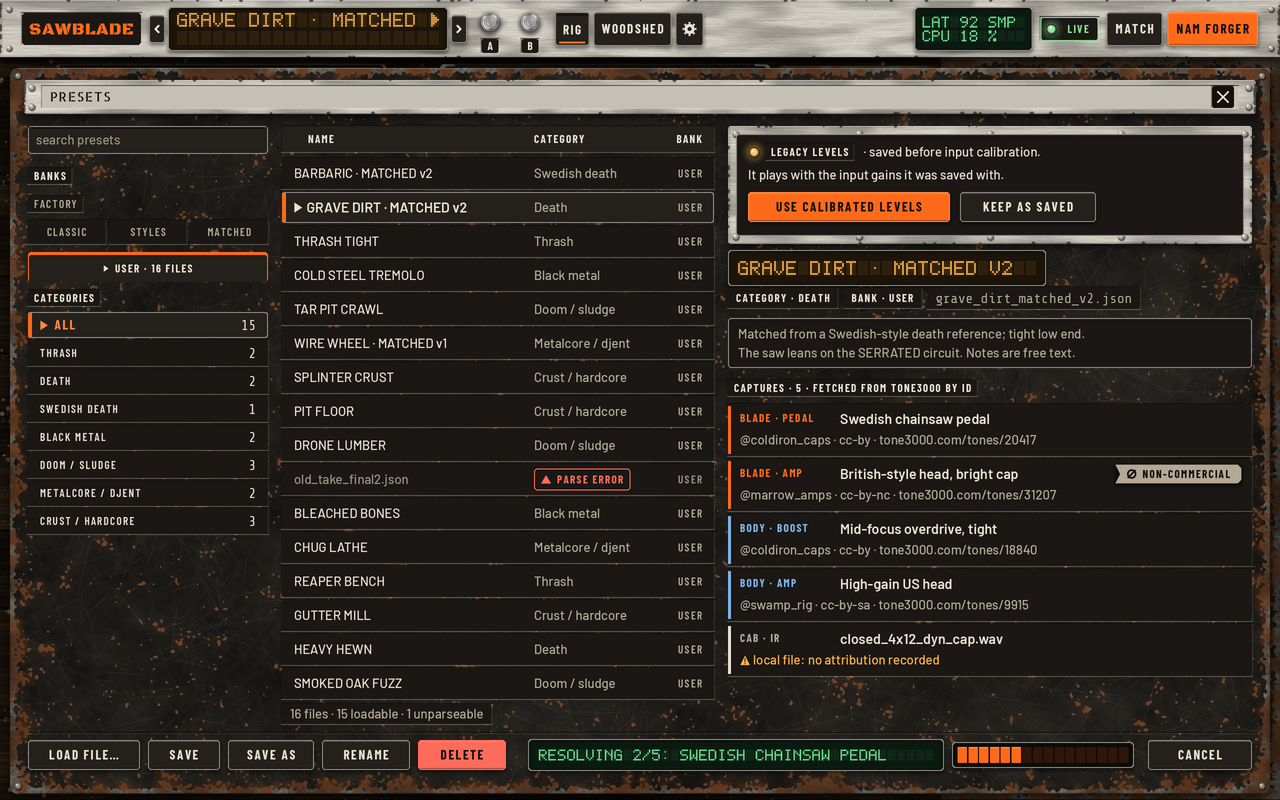
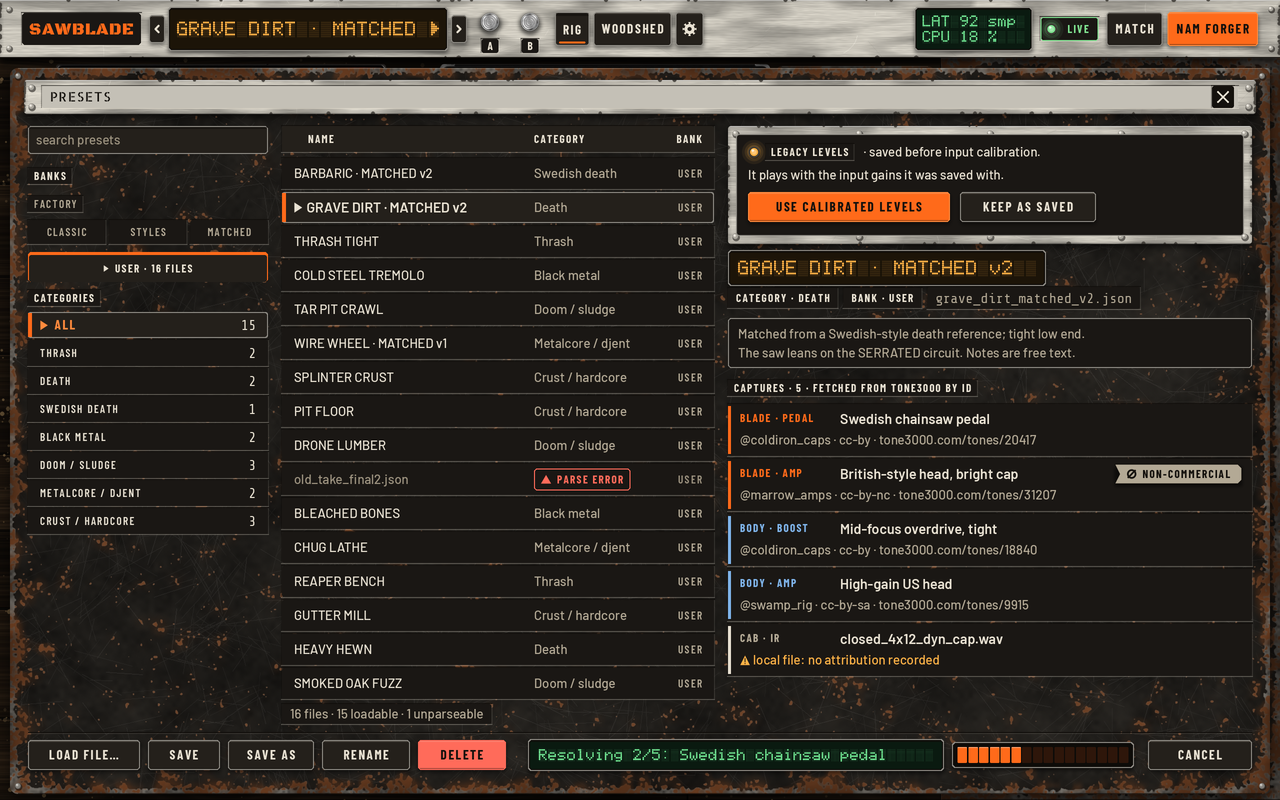
mockups: lower-case dot-matrix glyphs so units and names read as given (dB, smp, v2)
- dm_display: 5x7 glyphs gain a-z (one descender row); text is rendered in the case it is given; row pitch includes the descender row
- v3 strings use their real case (dB, dBu, smp, v2, v3, epoch / ETA / min); mixed-case label styles for the lamp words
- 03 status strips are 42 px so the two rows stay clear; v2 sets unchanged; README v3 table and note updated

Claude-Session: https://claude.ai/code/session_01Xtcva4Boag1J55QcGzGRmV

diff --git a/design/render/workshop_style.py b/design/render/workshop_style.py
@@ -249,6 +249,8 @@ STYLES = {
     'label':    dict(font='barlowc600', size=11, track=0.12, fg='bone_dim', caps=True),
     'label_b':  dict(font='barlowc700', size=11, track=0.12, fg='bone', caps=True, bold=True),
     'label_ink': dict(font='barlowc700', size=11, track=0.12, fg='ink', caps=True, bold=True),
+    'label_mx': dict(font='barlowc600', size=11, track=0.06, fg='bone_dim'),            # v3: unit case kept (dB, smp)
+    'label_mx_b': dict(font='barlowc700', size=11, track=0.06, fg='bone', bold=True),
     'button':   dict(font='barlowc700', size=13, track=0.12, fg='bone', caps=True, bold=True),
     'button_ink': dict(font='barlowc700', size=13, track=0.12, fg='ink', caps=True, bold=True),
     'body':     dict(font='barlow500', size=13, track=0.0, fg='bone'),
@@ -2117,16 +2119,34 @@ _DM = {
     '<': "....# ...#. ..#.. .#... ..#.. ...#. ....#", "'": "..#.. ..#.. ..... ..... ..... ..... .....",
     '|': "..#.. ..#.. ..#.. ..#.. ..#.. ..#.. ..#..", '@': ".###. #...# #.### #.#.# #.### #.... .###.",
 }
-DM_GLYPHS = {k: v.split() for k, v in _DM.items()}
+_DM_LOWER = {
+    'a': "..... ..... .###. ....# .#### #...# .#### .....", 'b': "#.... #.... #.##. ##..# #...# ##..# #.##. .....",
+    'c': "..... ..... .###. #...# #.... #...# .###. .....", 'd': "....# ....# .##.# #..## #...# #..## .##.# .....",
+    'e': "..... ..... .###. #...# ##### #.... .###. .....", 'f': "..##. .#..# .#... ###.. .#... .#... .#... .....",
+    'g': "..... ..... .#### #...# #...# .#### ....# .###.", 'h': "#.... #.... #.##. ##..# #...# #...# #...# .....",
+    'i': "..#.. ..... .##.. ..#.. ..#.. ..#.. .###. .....", 'j': "...#. ..... ..##. ...#. ...#. ...#. #..#. .##..",
+    'k': "#.... #.... #..#. #.#.. ##... #.#.. #..#. .....", 'l': ".##.. ..#.. ..#.. ..#.. ..#.. ..#.. .###. .....",
+    'm': "..... ..... ##.#. #.#.# #.#.# #.#.# #.#.# .....", 'n': "..... ..... #.##. ##..# #...# #...# #...# .....",
+    'o': "..... ..... .###. #...# #...# #...# .###. .....", 'p': "..... ..... #.##. ##..# #...# ####. #.... #....",
+    'q': "..... ..... .##.# #..## #...# .#### ....# ....#", 'r': "..... ..... #.##. ##..# #.... #.... #.... .....",
+    's': "..... ..... .#### #.... .###. ....# ####. .....", 't': ".#... .#... ###.. .#... .#... .#..# ..##. .....",
+    'u': "..... ..... #...# #...# #...# #..## .##.# .....", 'v': "..... ..... #...# #...# #...# .#.#. ..#.. .....",
+    'w': "..... ..... #...# #...# #.#.# #.#.# .#.#. .....", 'x': "..... ..... #...# .#.#. ..#.. .#.#. #...# .....",
+    'y': "..... ..... #...# #...# #...# .#### ....# .###.", 'z': "..... ..... ##### ...#. ..#.. .#... ##### .....",
+}
+DM_GLYPHS = {k: v.split() + ['.....'] for k, v in _DM.items()}
+DM_GLYPHS.update({k: v.split() for k, v in _DM_LOWER.items()})
 for _k, _v in DM_GLYPHS.items():
-    if len(_v) != 7 or any(len(r) != 5 for r in _v):
-        raise ValueError('dot-matrix glyph %r is not 5x7' % _k)
-_DM_ALIAS = {'−': '-', '–': '-', '▸': '▶', '✗': '×', 'é': 'E'}
+    if len(_v) != 8 or any(len(r) != 5 for r in _v):
+        raise ValueError('dot-matrix glyph %r is not 5 wide x 8 rows (7 + a descender row)' % _k)
+_DM_ALIAS = {'−': '-', '–': '-', '▸': '▶', '✗': '×', 'é': 'e'}
 
 
 def dm_glyph(ch):
-    ch = _DM_ALIAS.get(ch, ch.upper())
-    return DM_GLYPHS.get(ch, DM_GLYPHS['?'])
+    ch = _DM_ALIAS.get(ch, ch)
+    if ch in DM_GLYPHS:
+        return DM_GLYPHS[ch]
+    return DM_GLYPHS.get(ch.upper(), DM_GLYPHS['?'])
 
 
 def dm_width(s, h=14):
@@ -2161,11 +2181,11 @@ def dm_display(cv, rect, lines, h=14, tone='amber', align='l', pad=6, row_gap=No
     gx0, gx1 = gl[0] + pad, gl[2] - pad
     cols = max(1, int((gx1 - gx0 + pitch) // adv))
     gx = gx0 + ((gx1 - gx0) - (cols * adv - pitch)) / 2.0
-    row_pitch = (row_gap if row_gap is not None else 2.2) * pitch + 7 * pitch
+    row_pitch = (row_gap if row_gap is not None else 2.2) * pitch + 8 * pitch          # 7 cap rows + the descender row + the gap
     nrows = len(lines)
-    rows_fit = max(1, int(((gl[3] - gl[1]) - 4 + (row_pitch - 7 * pitch)) // row_pitch))
+    rows_fit = max(1, int(((gl[3] - gl[1]) - 4 - 8 * pitch) // row_pitch) + 1)
     nrows_draw = min(nrows, rows_fit)
-    gy = (gl[1] + gl[3]) / 2.0 - ((rows_fit - 1) * row_pitch + 7 * pitch) / 2.0
+    gy = (gl[1] + gl[3]) / 2.0 - ((rows_fit - 1) * row_pitch + 7.5 * pitch) / 2.0
     # flat check before anything is drawn on the glass
     _flat_colour(cv, _dev((gl[0] + 1, gl[1] + 1, gl[2] - 1, gl[3] - 1)), 'display', allow=(glass, ghost))
     k = 4
@@ -2179,7 +2199,7 @@ def dm_display(cv, rect, lines, h=14, tone='amber', align='l', pad=6, row_gap=No
     ink_rows = []
     for r in range(rows_fit):
         for c in range(cols):
-            for j in range(7):
+            for j in range(8):
                 for i in range(5):
                     cx = (gx + c * adv + (i + 0.5) * pitch - gl[0]) * S
                     cy = (gy + r * row_pitch + (j + 0.5) * pitch - gl[1]) * S
@@ -2192,14 +2212,14 @@ def dm_display(cv, rect, lines, h=14, tone='amber', align='l', pad=6, row_gap=No
         off = {'l': 0, 'c': (cols - len(txt)) // 2, 'r': cols - len(txt)}[align]
         for ci, ch in enumerate(txt):
             g = dm_glyph(ch)
-            for j in range(7):
+            for j in range(8):
                 for i in range(5):
                     if g[j][i] == '#':
                         cx = (gx + (ci + off) * adv + (i + 0.5) * pitch - gl[0]) * S * k
                         cy = (gy + r * row_pitch + (j + 0.5) * pitch - gl[1]) * S * k
                         rr = dr * S * k
                         ld.ellipse((cx - rr, cy - rr, cx + rr, cy + rr), fill=255)
-        ink_rows.append((txt, (gx + off * adv, gy + r * row_pitch, gx + (off + len(txt)) * adv - pitch, gy + r * row_pitch + 7 * pitch)))
+        ink_rows.append((txt, (gx + off * adv, gy + r * row_pitch, gx + (off + len(txt)) * adv - pitch, gy + r * row_pitch + 8 * pitch)))
     # unlit matrix: exact ghost colour, no anti-aliasing (the flat colours are {glass, ghost})
     cv.im.paste(Image.new('RGB', (wd, hd), ghost), (x0d, y0d), ghost_m.point(lambda v: 255 if v > 127 else 0))
     lit_s = lit_m.resize((wd, hd), Image.BOX)
@@ -2425,7 +2445,7 @@ def top_bar_v3(cv, st, y=0, width=PAGE_W):
     out['mode'] = mr
     x = mr[0] - 8
     sr = (x - 118, cy - 22, x, cy + 22)
-    dm_display(cv, sr, ['LAT %d SMP' % st.lat, 'CPU %d %%' % st.cpu], h=11, tone='green', pad=4, row_gap=1.8)
+    dm_display(cv, sr, ['LAT %d smp' % st.lat, 'CPU %d %%' % st.cpu], h=11, tone='green', pad=4, row_gap=1.8)
     out['status'] = sr
     x = sr[0] - 8
     # ---- state lamps (UNCAL / OUT OF TRUE) in one backlit block in the room between the clusters -------------------------
@@ -2436,7 +2456,7 @@ def top_bar_v3(cv, st, y=0, width=PAGE_W):
     elif st.uncal:
         rows = [('amber', 'UNCAL', 'label_b', 'warn'), (None, 'NOT CALIBRATED', 'label', 'bone_dim')]
     elif st.out_of_true:
-        rows = [('red', 'OUT OF TRUE', 'label_b', 'alert'), (None, '+%.1f DB HOTTER' % st.out_of_true_db, 'label', 'bone_dim')]
+        rows = [('red', 'OUT OF TRUE', 'label_b', 'alert'), (None, '+%.1f dB hotter' % st.out_of_true_db, 'label_mx', 'bone_dim')]
     if rows:
         bwid = max(text_width(t, sty) for (_h, t, sty, _f) in rows) + 40
         br = (x - bwid, cy - 24, x, cy + 24)
@@ -2651,15 +2671,15 @@ def render_style_sheet_v3():
         elif nme in ('lcd_green',):
             text(cv, (lab[2] - 4, rect_c(lab)[1]), '%.1f:1' % contrast(PAL[nme], PAL['glass_green']), 'label', bg=lab, size=11, fg='bone_dim', align='r')
     dmk = _section(cv, (ax0, 402, ax1, 790), 'DOT-MATRIX 5 x 7 · GHOST DOTS')
-    dm_display(cv, (dmk[0], dmk[1], dmk[2], dmk[1] + 86), ['ABCDEFGHIJKLM', 'NOPQRSTUVWXYZ', '0123456789 .:-+/%'], h=14, tone='amber', pad=8, row_gap=0.8)
-    dm_display(cv, (dmk[0], dmk[1] + 94, dmk[2], dmk[1] + 152), ['LAT 92 SMP · CPU 18 %', 'EPOCH 41 / 100 · ETA 18 MIN'], h=11, tone='green', pad=8, row_gap=1.6)
+    dm_display(cv, (dmk[0], dmk[1], dmk[2], dmk[1] + 86), ['ABCDEFGHIJKLM nopqrstuvwxyz', 'abcdefghijklm NOPQRSTUVWXYZ', '0123456789 .:-+/% dB smp ms Hz dBu'], h=14, tone='amber', pad=8, row_gap=0.8)
+    dm_display(cv, (dmk[0], dmk[1] + 94, dmk[2], dmk[1] + 152), ['LAT 92 smp · CPU 18 %', 'epoch 41 / 100 · ETA 18 min'], h=11, tone='green', pad=8, row_gap=1.6)
     gr = '%.2f' % contrast(GHOST['amber'], TONES['amber']['glass'])
     gg = '%.2f' % contrast(GHOST['green'], TONES['green']['glass'])
     label_well(cv, (dmk[0], dmk[1] + 170), 'GHOST VS GLASS · AMBER %s:1 · GREEN %s:1 (<= 1.25)' % (gr, gg), 'label_b', h=20)
     strip_y = dmk[1] + 196
     lit = contrast(rgb(TONES['amber']['lit']), tuple(int(round(GHOST['amber'][q] * (1 - BLOOM) + rgb(TONES['amber']['lit'])[q] * BLOOM)) for q in range(3)))
     label_well(cv, (dmk[0], strip_y), 'LIT TEXT VS GHOST + BLOOM (logged) · AMBER %.1f:1' % lit, 'label_b', h=20)
-    dm_display(cv, (dmk[0], strip_y + 18, dmk[2], strip_y + 56), 'A VERY LONG PRESET NAME THAT SCROLLS', h=14, tone='amber', pad=8)
+    dm_display(cv, (dmk[0], strip_y + 18, dmk[2], strip_y + 56), 'A very long preset name that scrolls', h=14, tone='amber', pad=8)
     label_well(cv, (dmk[0], strip_y + 72), 'SCROLLER: CLIPPED ▶ MARKER WHEN LONGER THAN THE WINDOW', 'label', h=18)
     # ---- column B: segment LCDs, ladders, rings ------------------------------------------------------------------------------
     bx0, bx1 = 446, 858
@@ -2691,10 +2711,10 @@ def render_style_sheet_v3():
     # ---- column C: the top bar, buttons -----------------------------------------------------------------------------------------
     cx0, cx1 = 868, 1268
     tb = _section(cv, (cx0, 60, cx1, 250), 'TOP BAR · DISPLAYS')
-    dm_display(cv, (tb[0], tb[1] + 2, tb[2], tb[1] + 46), 'BARBARIC · MATCHED V2', h=14, tone='amber', pad=8)
+    dm_display(cv, (tb[0], tb[1] + 2, tb[2], tb[1] + 46), 'BARBARIC · MATCHED v2', h=14, tone='amber', pad=8)
     label_well(cv, (tb[0], tb[1] + 62), 'PRESET NAME · FITS THE WINDOW, NO SCROLL', 'label', h=18)
-    dm_display(cv, (tb[0], tb[1] + 78, tb[2] - 122, tb[1] + 124), ['A ▶ GRAVE DIRT · MATCHED V2', 'B · THRASH TIGHT'], h=14, tone='amber', pad=8, row_gap=1.4)
-    dm_display(cv, (tb[2] - 114, tb[1] + 78, tb[2], tb[1] + 124), ['LAT 92 SMP', 'CPU 18 %'], h=11, tone='green', pad=4, row_gap=1.8)
+    dm_display(cv, (tb[0], tb[1] + 78, tb[2] - 122, tb[1] + 124), ['A ▶ GRAVE DIRT · MATCHED v2', 'B · THRASH TIGHT'], h=14, tone='amber', pad=8, row_gap=1.4)
+    dm_display(cv, (tb[2] - 114, tb[1] + 78, tb[2], tb[1] + 124), ['LAT 92 smp', 'CPU 18 %'], h=11, tone='green', pad=4, row_gap=1.8)
     label_well(cv, (tb[0], tb[1] + 140), 'A / B SLOTS AND LAT / CPU · LONG NAMES CLIP WITH ▶', 'label', h=18)
     kb = _section(cv, (cx0, 260, cx1, 790), 'BUTTONS · FIELDS · FRAMES')
     by = kb[1] + 2

diff --git a/design/mockups/workshop/screens_panels.py b/design/mockups/workshop/screens_panels.py
@@ -147,29 +147,29 @@ def screen_03_settings_calibration():
     ws.text(cv, (bx0, y), 'INPUT CALIBRATION', 'title', bg=body, size=22)
     y += 34
     # status strips: not calibrated now, calibrated after APPLY
-    s1 = (bx0, y, bx1, y + (38 if ws.is_v3() else 34))
+    s1 = (bx0, y, bx1, y + (42 if ws.is_v3() else 34))
     flat_box(cv, s1, 'well_raised', 'warn', 3)
     if ws.is_v3():
         ws.glow_led(cv, s1[0] + 16, (s1[1] + s1[3]) / 2.0, True, 'amber', 4.0)
         ws.dm_display(cv, (s1[0] + 34, s1[1] + 2, s1[2] - 4, s1[3] - 2),
-                      ['UNCAL · INTERFACE NOT CALIBRATED', 'CAPTURES PLAY AT THE +9.0 DBU DEFAULT · NOW'], h=11, tone='amber', row_gap=2.0, pad=5)
+                      ['UNCAL · interface not calibrated', 'captures play at the +9.0 dBu default · NOW'], h=11, tone='amber', row_gap=1.5, pad=5)
     else:
         b = ws.badge(cv, (s1[0] + 10, y + 17), 'UNCAL')
         ws.text(cv, (b[2] + 10, y + 17), '— interface not calibrated: captures play at the +9.0 dBu default', 'body',
                 bg=ws.inset(s1, 3))
         ws.text(cv, (s1[2] - 10, y + 17), 'NOW', 'label_b', bg=ws.inset(s1, 3), align='r', fg='warn')
-    y += 44 if ws.is_v3() else 40
-    s2 = (bx0, y, bx1, y + (38 if ws.is_v3() else 30))
+    y += 48 if ws.is_v3() else 40
+    s2 = (bx0, y, bx1, y + (42 if ws.is_v3() else 30))
     flat_box(cv, s2, 'well_raised', 'ok', 3)
     if ws.is_v3():
         ws.glow_led(cv, s2[0] + 16, (s2[1] + s2[3]) / 2.0, True, 'green', 4.0)
         ws.dm_display(cv, (s2[0] + 34, s2[1] + 2, s2[2] - 4, s2[3] - 2),
-                      ['CALIBRATED · SCARLETT 4I4 3RD GEN · INST · +12.5 DBU', '2026-10-08 · AFTER APPLY'], h=11, tone='green', row_gap=2.0, pad=5)
+                      ['CALIBRATED · Scarlett 4i4 3rd Gen · INST · +12.5 dBu', '2026-10-08 · AFTER APPLY'], h=11, tone='green', row_gap=1.5, pad=5)
     else:
         ws.text(cv, (s2[0] + 10, y + 15), '✓ CALIBRATED · Scarlett 4i4 3rd Gen · INST · +12.5 dBu · 2026-10-08', 'body_strong',
                 bg=ws.inset(s2, 3), fg='ok')
         ws.text(cv, (s2[2] - 10, y + 15), 'AFTER APPLY', 'label_b', bg=ws.inset(s2, 3), align='r', fg='ok')
-    y += 50 if ws.is_v3() else 46
+    y += 56 if ws.is_v3() else 46
     # INTERFACE dropdown, shown open
     ws.text(cv, (bx0, y), 'INTERFACE', 'label_b', bg=body)
     y += 16
@@ -338,7 +338,7 @@ def screen_04_preset_browser():
     ws.button(cv, (hb[0] + 224, y0 + 66, hb[0] + 360, y0 + 96), 'KEEP AS SAVED', 'secondary')
     y = y0 + 142
     if ws.is_v3():
-        nr = ws.dm_display(cv, (ix0, y - 18, ix0 + 318, y + 18), 'GRAVE DIRT · MATCHED V2', h=14, tone='amber', pad=6)
+        nr = ws.dm_display(cv, (ix0, y - 18, ix0 + 318, y + 18), 'GRAVE DIRT · MATCHED v2', h=14, tone='amber', pad=6)
     else:
         nr = ws.label_well(cv, (ix0, y), 'GRAVE DIRT · MATCHED v2', 'title', fg='bone', size=18, h=32, pad=10)
     y += 30
@@ -383,7 +383,7 @@ def screen_04_preset_browser():
         bx += w + 8
     sr = (bx + 14, foot_y - 1, x1 - 118, foot_y + 31)
     if ws.is_v3():
-        ws.dm_display(cv, (sr[0], sr[1], sr[2] - 190, sr[3]), 'RESOLVING 2/5: SWEDISH CHAINSAW PEDAL', h=11, tone='green', pad=5)
+        ws.dm_display(cv, (sr[0], sr[1], sr[2] - 190, sr[3]), 'Resolving 2/5: Swedish chainsaw pedal', h=11, tone='green', pad=5)
         ws.led_bar(cv, (sr[2] - 182, foot_y + 2, sr[2], foot_y + 28), 0.4, n=16)
     else:
         cv.fill(sr, 'steel_bare', 3)
@@ -432,7 +432,7 @@ def screen_09_notices():
     rp = (984, 94, 1260, 140)
     rail_piece(cv, rp, 'noticeA')
     if ws.is_v3():
-        ws.state_led(cv, rp[0] + 14, 117, True, 'red', 'OUT OF TRUE · +4.5 dB', r=4.0)
+        ws.state_led(cv, rp[0] + 14, 117, True, 'red', 'OUT OF TRUE · +4.5 dB', r=4.0, style='label_mx_b')
         ws.label_well(cv, (984, 160), 'glowing lamp + word + dB offset', 'body_dim', h=20, pad=8)
     else:
         ws.chip(cv, (rp[0] + 14, 117), 'OUT OF TRUE · +4.5 dB', 'alert', glyph='skew', h=24)
@@ -455,7 +455,7 @@ def screen_09_notices():
     rp2 = (984, 220, 1260, 266)
     rail_piece(cv, rp2, 'noticeB')
     if ws.is_v3():
-        ws.state_led(cv, rp2[0] + 12, 243, True, 'amber', 'UNCAL · INTERFACE NOT CALIBRATED', r=4.0)
+        ws.state_led(cv, rp2[0] + 12, 243, True, 'amber', 'UNCAL · interface not calibrated', r=4.0, style='label_mx_b')
     else:
         ws.chip(cv, (rp2[0] + 12, 243), 'UNCAL · interface not calibrated', 'warn', glyph='warn', h=24)
     # ---- UNCAL badge placements -------------------------------------------------------------------------------------------
@@ -511,7 +511,7 @@ def screen_09_notices():
     tb = (t[0] + 8, t[1] + 8, t[2] - 8, t[3] - 8)
     flat_box(cv, tb, 'well', 'ok', 3)
     if ws.is_v3():
-        ws.dm_display(cv, (tb[0] + 2, tb[1] + 2, tb[2] - 2, tb[3] - 2), ['PRESET SAVED:', 'GRAVE DIRT · MATCHED V3'], h=11, tone='green', row_gap=1.6, pad=6)
+        ws.dm_display(cv, (tb[0] + 2, tb[1] + 2, tb[2] - 2, tb[3] - 2), ['Preset saved:', 'GRAVE DIRT · MATCHED v3'], h=11, tone='green', row_gap=1.6, pad=6)
     else:
         ws.glyph_icon(cv, 'check', tb[0] + 18, (tb[1] + tb[3]) / 2.0, 14, 'ok')
         ws.text(cv, (tb[0] + 34, (tb[1] + tb[3]) / 2.0), 'Preset saved: GRAVE DIRT · MATCHED v3', 'body', bg=tb)

diff --git a/design/mockups/workshop/screens_tools.py b/design/mockups/workshop/screens_tools.py
@@ -234,7 +234,7 @@ def screen_05_match():
     btn(cv, L0, by, L1 - L0, 40, 'START MATCH', 'primary')
     if ws.is_v3():
         ws.led_bar(cv, (L0, by + 48, L1 - 150, by + 70), 1.0, n=22, hue='green')
-        ws.state_led(cv, L1 - 142, by + 59, True, 'green', 'DONE · 1 M 12 S', r=4.0)
+        ws.state_led(cv, L1 - 142, by + 59, True, 'green', 'DONE · 1 m 12 s', r=4.0, style='label_mx_b')
     else:
         ws.progress(cv, (L0, by + 50, L1 - 150, by + 66), 1.0, 'ok')
         label_well(cv, (L1 - 142, by + 58), '✓ DONE · 1 m 12 s', 'label_b', h=20, fg='ok')
@@ -303,7 +303,7 @@ def screen_05_match():
     text(cv, (lg2[0] + 56, ly + 40), 'MATCH · dashed', 'label_b', bg=(lg2[0] + 52, lg2[1] + 2, lg2[2] - 2, lg2[3] - 2))
     ws.lcd(cv, (lx, ly + 76), '9', '/ 10 rules', digits=2, h=20)
     if ws.is_v3():
-        ws.dm_display(cv, (lx, ly + 96, k[2], ly + 128), '6.45 → 1.53 DB', h=14, tone='green', pad=6)
+        ws.dm_display(cv, (lx, ly + 96, k[2], ly + 128), '6.45 → 1.53 dB', h=14, tone='green', pad=6)
     else:
         strip(cv, (lx, ly + 100, k[2], ly + 124), '6.45 → 1.53 dB', 'mono', pad=8)
     reveal(cv, [(12, 66, 1268, 792)])
@@ -435,10 +435,10 @@ def screen_06_nam_forger():
     if ws.is_v3():
         ws.state_led(cv, r[0] + 14, cyy, True, 'orange', 'TRAINING · LITE', r=4.0)
         ws.led_bar(cv, (r[0] + 170, cyy - 12, r[0] + 480, cyy + 12), 0.41, n=30, hue='orange')
-        ws.dm_display(cv, (r[0] + 492, cyy - 16, r[0] + 686, cyy + 16), 'EPOCH 41 / 100', h=14, tone='green', pad=6)
+        ws.dm_display(cv, (r[0] + 492, cyy - 16, r[0] + 686, cyy + 16), 'epoch 41 / 100', h=14, tone='green', pad=6)
         label_well(cv, (r[0] + 700, cyy), 'BEST ESR', 'label_b', h=22)
         ws.lcd(cv, (r[0] + 782, cyy), '0.0123', '', digits=5, h=16, tone='green')
-        ws.dm_display(cv, (r[0] + 880, cyy - 16, r[0] + 1030, cyy + 16), 'ETA 18 MIN', h=14, tone='green', pad=6)
+        ws.dm_display(cv, (r[0] + 880, cyy - 16, r[0] + 1030, cyy + 16), 'ETA 18 min', h=14, tone='green', pad=6)
     else:
         label_well(cv, (r[0] + 12, cyy), 'TRAINING · LITE', 'label_b', h=22)
         ws.progress(cv, (r[0] + 160, cyy - 9, r[0] + 480, cyy + 9), 0.41)
@@ -647,7 +647,7 @@ def screen_08_rig_editor():
         ws.tab(cv, (tx, c[1] + 4, tx + w, c[1] + 34), nm, act)
         tx += w + 6
     if ws.is_v3():
-        ws.dm_display(cv, (x0 + 290, c[1] + 38, x1, c[1] + 68), '✓ BUILT · 5 BLOCKS · LATENCY 92 SMP · ALIGN −17 SMP', h=11, tone='green', pad=6)
+        ws.dm_display(cv, (x0 + 290, c[1] + 38, x1, c[1] + 68), '✓ built · 5 blocks · latency 92 smp · ALIGN −17 smp', h=11, tone='green', pad=6)
         mx0 = x0 + 290
         mw = (x1 - mx0 - 16) / 3.0
         for i, (lab, val, pk, vt, lo, hi, tk) in enumerate([('IN', -17.0, -9.0, ('-17', 'dB', 3), -48.0, 0.0, (-48, -24, 0)),

diff --git a/design/mockups/workshop/screens_rig.py b/design/mockups/workshop/screens_rig.py
@@ -165,7 +165,7 @@ def screen_01_main_rig():
     pl = ws.plate(cv, (pr[0] + 6, pr[1] + 6, pr[2] - 6, pr[1] + 38), 'MATCH vs ORIGINAL', title_style='section_mixed')
     vw = (pr[0] + 12, pr[1] + 46, pr[2] - 12, pr[3] - 8)
     if ws.is_v3():
-        ws.dm_display(cv, vw, '6.45 → 1.53 DB · 9/10', h=14, tone='green', align='c')
+        ws.dm_display(cv, vw, '6.45 → 1.53 dB · 9/10', h=14, tone='green', align='c')
     else:
         ws.well(cv, vw, 'well', 3)
         ws.text(cv, None, '6.45 → 1.53 dB · 9/10 rules', 'mono', bg=vw)

diff --git a/design/mockups/workshop/README.md b/design/mockups/workshop/README.md
@@ -180,7 +180,7 @@ rows with a hex background below). Ghost vs glass is <= 1.25:1 (amber 1.23:1, gr
 | label | blade_hi | well | 7.61:1 ok | 4.5 | 11 | 4 | 00 01 09 |
 | label | body | well | 8.18:1 ok | 4.5 | 11 | 3 | 00 01 |
 | label | bone | well | 13.71:1 ok | 4.5 | 11 | 34 | 00 04 |
-| label | bone_dim | well | 7.67:1 ok | 4.5 | 11 | 110 | 00 01 02 03 04 05 06 07 08 |
+| label | bone_dim | well | 7.67:1 ok | 4.5 | 11 | 109 | 00 01 02 03 04 05 06 07 08 |
 | label | bone_dim | well_raised | 6.96:1 ok | 4.5 | 11 | 1 | 04 |
 | label | bone_mute | well | 5.81:1 ok | 4.5 | 11 | 2 | 00 04 |
 | label | lcd_amber | well | 10.02:1 ok | 4.5 | 11 | 1 | 00 |
@@ -191,7 +191,7 @@ rows with a hex background below). Ghost vs glass is <= 1.25:1 (amber 1.23:1, gr
 | label_b | blade | well | 6.23:1 ok | 4.5 | 11 | 2 | 04 |
 | label_b | blade_hi | well | 7.61:1 ok | 4.5 | 11 | 22 | 01 02 06 09 |
 | label_b | body | well | 8.18:1 ok | 4.5 | 11 | 5 | 02 04 05 06 |
-| label_b | bone | well | 13.71:1 ok | 4.5 | 11 | 132 | 00 01 02 03 04 05 06 07 08 09 |
+| label_b | bone | well | 13.71:1 ok | 4.5 | 11 | 129 | 00 01 02 03 04 05 06 07 08 09 |
 | label_b | bone | well_raised | 12.43:1 ok | 4.5 | 11 | 6 | 00 04 08 |
 | label_b | bone_dim | well | 7.67:1 ok | 4.5 | 11 | 6 | 00 04 05 08 |
 | label_b | ok | well | 11.02:1 ok | 4.5 | 11 | 14 | 01 02 03 04 05 06 07 08 09 |
@@ -203,6 +203,8 @@ rows with a hex background below). Ghost vs glass is <= 1.25:1 (amber 1.23:1, gr
 | label_ink | ink | bone_dim | 8.09:1 ok | 4.5 | 11 | 2 | 04 06 |
 | label_ink | ink | lcd_amber | 10.57:1 ok | 4.5 | 11 | 4 | 08 09 |
 | label_ink | ink | ok | 11.62:1 ok | 4.5 | 11 | 1 | 05 |
+| label_mx | bone_dim | well | 7.67:1 ok | 4.5 | 11 | 1 | 02 |
+| label_mx_b | bone | well | 13.71:1 ok | 4.5 | 11 | 3 | 05 09 |
 | lcd | #cc8f39 | #2a1e0c | 5.86:1 ok | 4.5 | 14 | 3 | 07 |
 | lcd | lcd_amber | #35250f | 8.29:1 ok | 4.5 | 14,16,18,20,22,26 | 51 | 00 01 03 05 07 08 |
 | lcd | lcd_green | #142e1d | 11.61:1 ok | 4.5 | 14,16,26 | 4 | 00 02 05 06 |
@@ -238,7 +240,7 @@ is untouched. v3 keeps the worn metal, sawdust and rivets and turns the readouts
 - **Backlit LCD panels**: amber (`lcd_amber` on the slightly lit `glass_amber`) and a new backlit green (`lcd_green` on `glass_green`),
   recessed bezel, flat glass colour, ghost (unlit) segments / dots at <= 1.25:1 against the glass. The 7-segment `lcd()` readouts use
   them everywhere (best score and the training ESR in green).
-- **Dot-matrix text** (`dm_display`): a procedural 5 x 7 face (no font) over a ghost matrix, with a faint bloom; values and names >= 14 px,
+- **Dot-matrix text** (`dm_display`): a procedural 5 x 7 face (no font) with lower case (descenders use one extra row), so units and names read as given (`dB`, `smp`, `v2`), over a ghost matrix, with a faint bloom; values and names >= 14 px,
   small status lines >= 11 px. Used for preset names (04 info panel, top bar), status lines (03 UNCAL / CALIBRATED, 04 resolve
   status, 06 epoch / ETA, 08 build status), LAT / CPU, the 01 match readout and the 09 toast. Prose stays plain text.
 - **Top bar**: the preset / rig name is an amber dot-matrix scroller (a longer name is clipped and ends in a ▶ marker; the default
